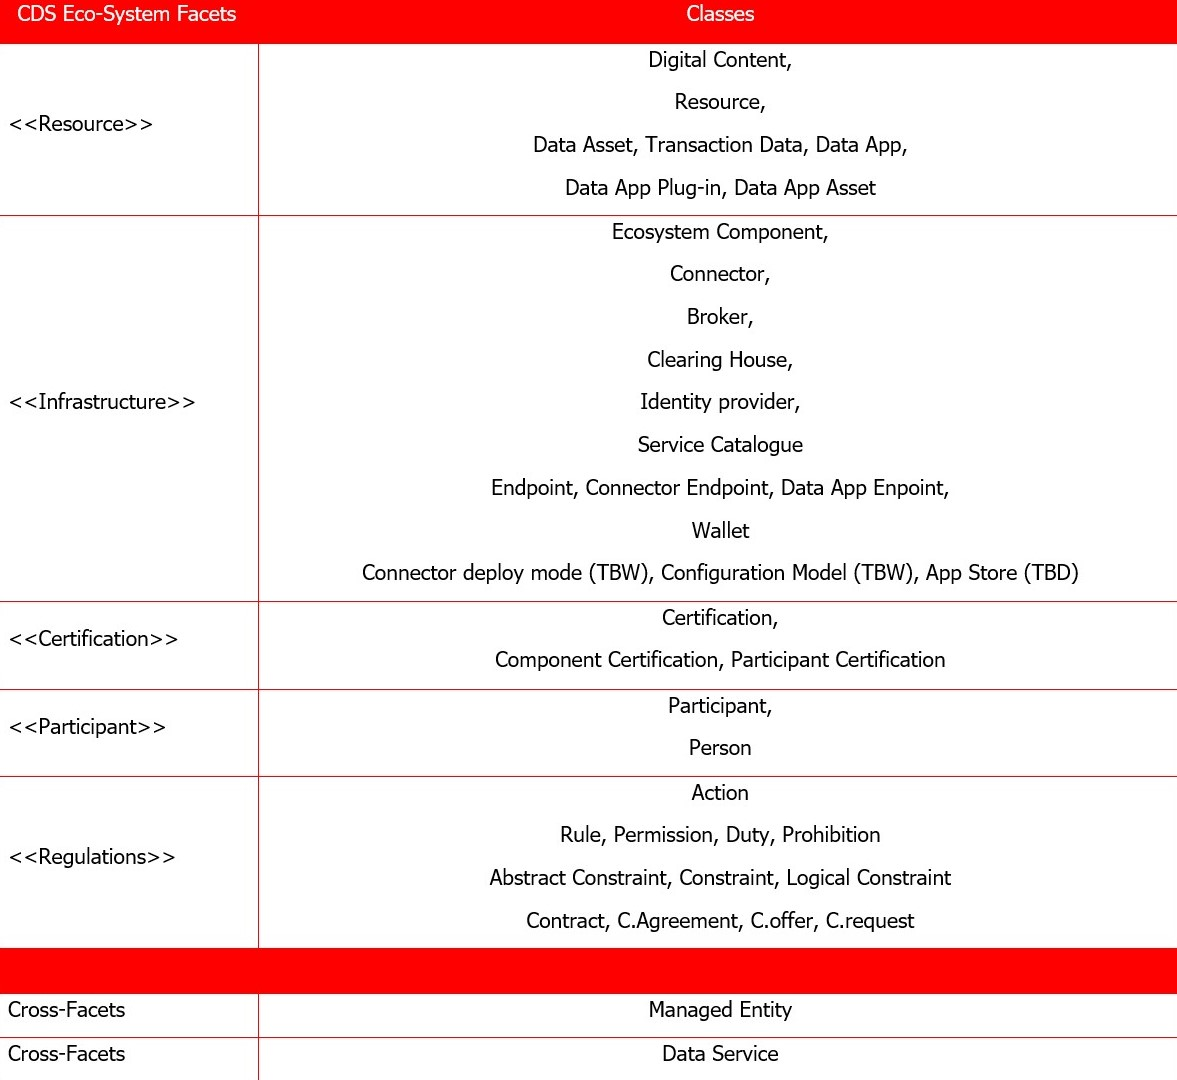
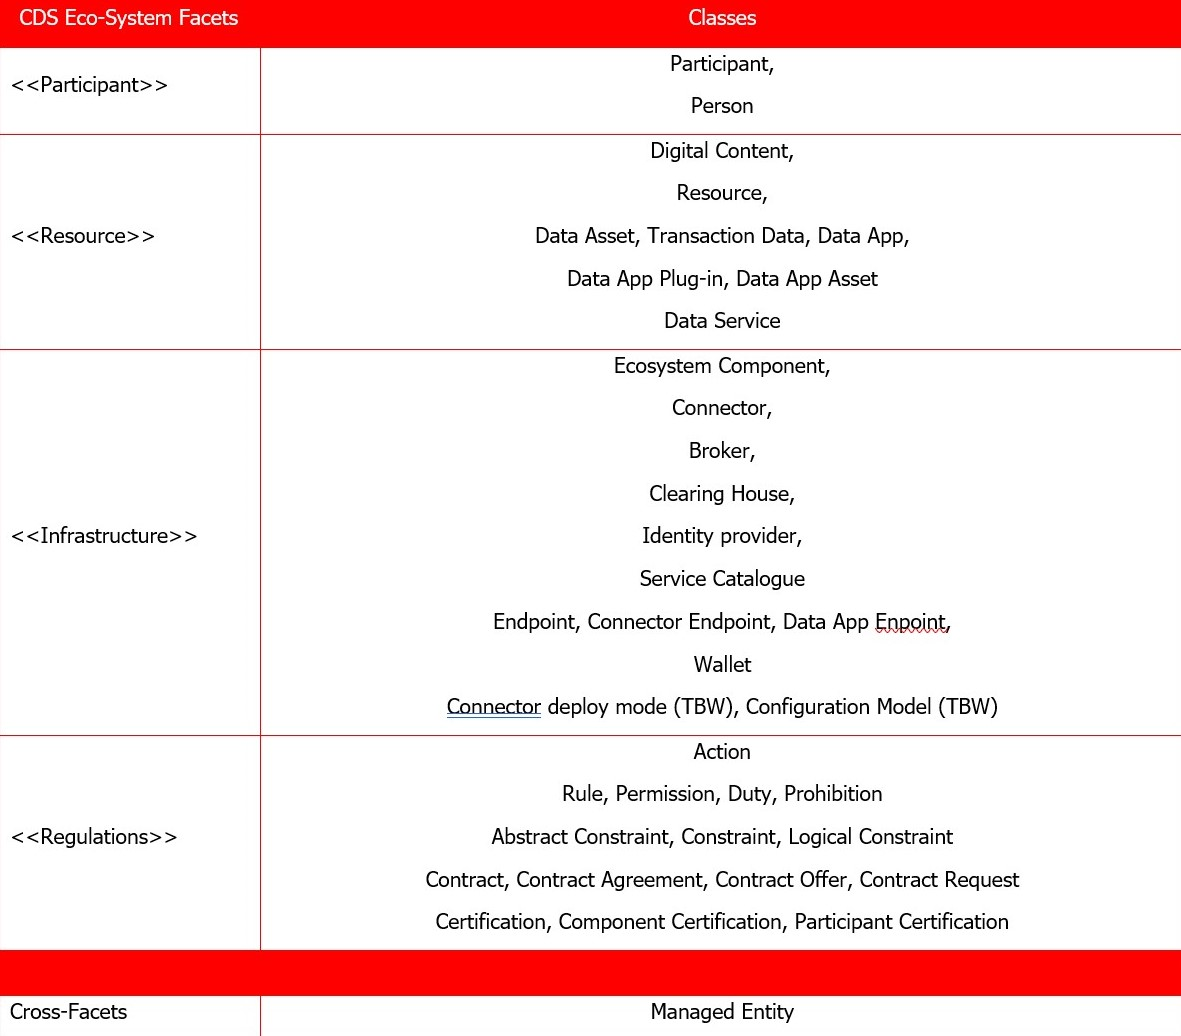
Updating Documentation

diff --git a/Documentation/index-en.html b/Documentation/index-en.html
@@ -1485,7 +1485,7 @@ This ontology has the following classes and properties.</span>
 			<p style="color:#004d99">Figure 1: Semantic entities and relations overview.</p>
 			<br>
 		</center>
-		<p>Object properties relationships detail is given in Figure 2. </p>
+		<p>Object properties relationships detail is given in Figure 2</p>
 		<br>
 		<center>
 			<br>
@@ -1568,7 +1568,7 @@ This ontology has the following classes and properties.</span>
 			by the respective Data App in accordance with the security policies of the Connector. A Data App Asset is a machine-interpretable Data Asset, 
 			such as a script file, algorithm, rule set, or another type of code, which execution relies on a particular runtime environment.
 			<br><br>
-			A Data Service represents an End-Service constituted by Data Apps, implementing relevant functions. A Data Service can integrate one or more of 
+			A <b>Data Service</b> represents an End-Service constituted by Data Apps, implementing relevant functions. A Data Service can integrate one or more of 
 			these applications, depending on its scope, e.g. discovery, download, trace, distribute, produce, process, order, archive, etc. 
 			<br><br>
 			Such operations on Data Asset defines the type of a Data Service. 
@@ -1609,7 +1609,7 @@ This ontology has the following classes and properties.</span>
 			The <b>Connector</b> is the infrastructure core building block and is a communication server providing and consuming data by means of Data Apps via 
 			<b>endpoints</b>. It constitutes the basis for the implementation of other, more specialized components. A Participant providing an end-service will 
 			be supplied with proper number of Connectors and relevant correct properties to deploy their applications, according to 
-			an agreed deployment mode. <b>Data Service</b> is the class relevant to these end-services.
+			an agreed deployment mode. Data Service is the class relevant to these end-services.
 		<br><br>
 			The endpoints exposed by Connectors, offer digital commodities that are optionally advertised by publication at the metadata registries, 
 			the Broker. Furthermore, the responsible Participant operating the Connector (Service Provider) and the deployment type (on-premises vs. cloud) 
@@ -1669,8 +1669,8 @@ This ontology has the following classes and properties.</span>
 		<p>
 			Relationships between Facets identified for a Service are: 
 			<ul>
-				<li>Participant contributes Data App</li>
-				<li>Data App is contributed by Participant</li>
+				<li>Participant contributes Resource</li>
+				<li>Resource is contributed by Participant</li>
 				<br><br>
 				<li>Participant follows Regulation</li>
 				<li>Regulation is followed by Participant</li>
@@ -1678,18 +1678,17 @@ This ontology has the following classes and properties.</span>
 				<li>Participant produces Data Assets</li>
 				<li>Data Assets is produced by Participant</li>
 				<br><br>	
-				<li>Data Assets is produced by Participant</li>
+				<li>Participant provides Ecosystem component</li>
 				<li>Ecosystem component is provided by Participant</li>
 				<br><br>	
-				<li>Application (Data App) processes Data Assets</li>
-				<li>Data Assets is processed by Data App</li>
+				<li>Resource processes Resource </li>
+				<li>Resource is processed by Resource</li>
 				<br><br>	
-				<li>Data App uses Ecosystem Component</li>
-				<li>Ecosystem Component is used by Data App</li>
+				<li>Resource uses Ecosystem Component</li>
+				<li>Ecosystem Component is used by Resource</li>
 			</ul>	
 		<br><br>
-			In Table 1 we provide a mapping among the identified Facets representing a Service/ Eco-System, 
-			and the Classes constituting each of them. 
+			In Table 1 we provide a mapping among the identified Facets representing a Service/ Eco-System, and the Classes constituting each of them.  
 		</p>
 		<center>
 			<br>
